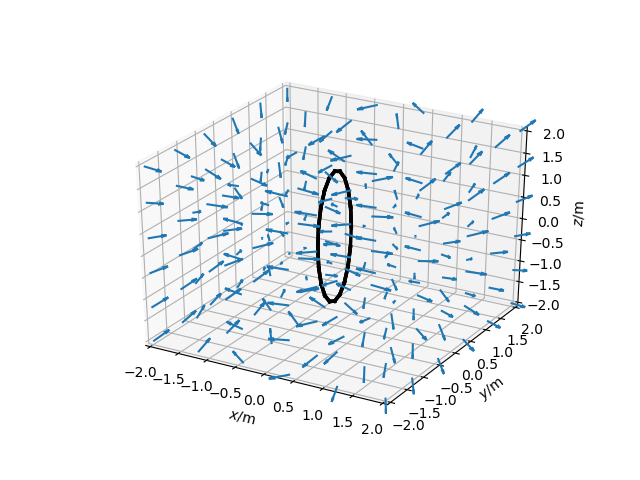
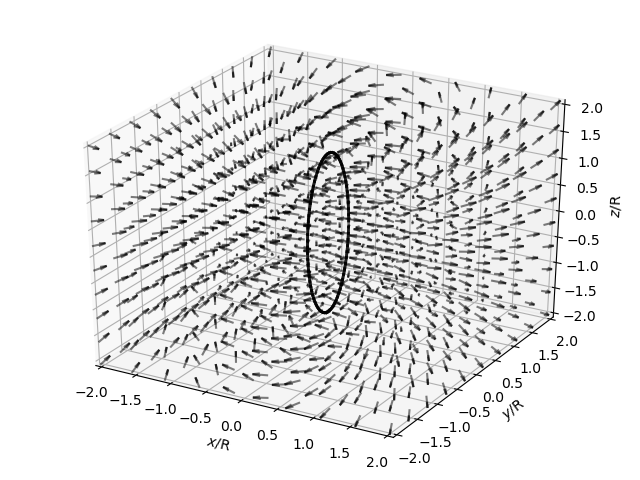
EBFieldSolver

diff --git a/src/FieldAnimation.py b/src/FieldAnimation.py
@@ -7,24 +7,31 @@ from FieldPlot import static, static3d, dynamic
 from FieldCalculator import mesh
 
 
-def init(xy_max, x_label='$x$', y_label='$y$', back_color='white', show=True, aspect=True):
+def init(xy_max, x_label=r'$x$/m', y_label=r'$y$/m', back_color='white', show=True, aspect=True):
     plt.xlim(-xy_max, xy_max)
     plt.ylim(-xy_max, xy_max)
-    plt.xlabel(r'' + x_label + '/m')
-    plt.ylabel(r'' + y_label + '/m')
+    plt.xlabel(x_label)
+    plt.ylabel(y_label)
     plt.gca().set_facecolor(back_color)
     plt.gca().set_aspect('equal') if aspect else plt.gca().set_aspect('auto')
+    plt.tight_layout()
     plt.show() if show else 0
 
 
 def static_field(xy_max, objects, function, nabla=''):
     static(xy_max, objects, function, nabla)
-    init(xy_max)
+    if function == 'E' or function == 'phi':
+        init(xy_max, x_label=r'$x/$d', y_label=r'$y/$d')
+    elif function == 'B' or function == 'A':
+        init(xy_max, x_label=r'$x/$R', y_label=r'$y/$R')
 
 
 def static_field3d(xyz_max, objects, function, nabla=''):
     static3d(xyz_max, objects, function, nabla)
-    init(xyz_max, aspect=False)
+    if function == 'E' or function == 'phi':
+        init(xyz_max, x_label=r'$x/$d', y_label=r'$y/$d', aspect=False)
+    elif function == 'B' or function == 'A':
+        init(xyz_max, x_label=r'$x/$R', y_label=r'$y/$R', aspect=False)
 
 
 def dynamic_field(xy_max, t_max, objects, function, save=False):
@@ -53,7 +60,6 @@ def dynamic_field(xy_max, t_max, objects, function, save=False):
         Q.set_UVC(f_x, f_z, f_c)
         return Q,
 
-    plt.tight_layout()
     anim = animation.FuncAnimation(fig, update,
                                    frames=FRAMES, interval=100, blit=True)
 

diff --git a/src/FieldPlot.py b/src/FieldPlot.py
@@ -5,7 +5,7 @@ from mpl_toolkits import mplot3d
 from FieldCalculator import rot, grad, field, field_round, mesh, phi_unit
 
 N_XYZ = 30
-N_XYZ_3D = 6
+N_XYZ_3D = 10
 
 
 def static(xy_max, objects, function, nabla=''):
@@ -90,7 +90,10 @@ def arrow_field3d(xyz_max, f_x, f_y, f_z, function, field_objects=(None,)):
     """
     x, y, z = mesh(xyz_max, len(f_x))
     plt.subplot(projection='3d', label='none')
-    plt.gca().set_zlabel(r'$z$/m')
+    if function == 'E' or function == 'phi':
+        plt.gca().set_zlabel(r'$z/$d')
+    elif function == 'B' or function == 'A':
+        plt.gca().set_zlabel(r'$z/$R')
     # cmap = plt.get_cmap()
     # plane = round(len(f_z) / 2)
     # norm = np.hypot(f_x, f_y, f_z)
@@ -129,13 +132,13 @@ def field_lines(xy_max, f_x, f_y, function, field_objects=(None,)):
     plane = round(len(z) / 2)
     f_xy_norm = np.hypot(f_x[:, :, plane], f_y[:, :, plane])
     plt.streamplot(x[:, :, plane], y[:, :, plane], f_x[:, :, plane], f_y[:, :, plane],
-                   color=np.log(f_xy_norm), cmap='cool', zorder=0, density=1)
+                   color=np.log(f_xy_norm), cmap='binary', zorder=0, density=1)
     draw_objects(function, field_objects)
 
 
 def draw_objects(function, field_objects, plot3d=False):
     """
-    Helper-function: Decide whether charges or current loop(s) should be drawn in 2d/3d
+    Helper-function: Decide whether charge(s) or current loop(s) should be drawn in 2d/3d
     :param function: corresponding field
     :param field_objects: desired field objects to draw
     :param plot3d: true if 3d, false else
